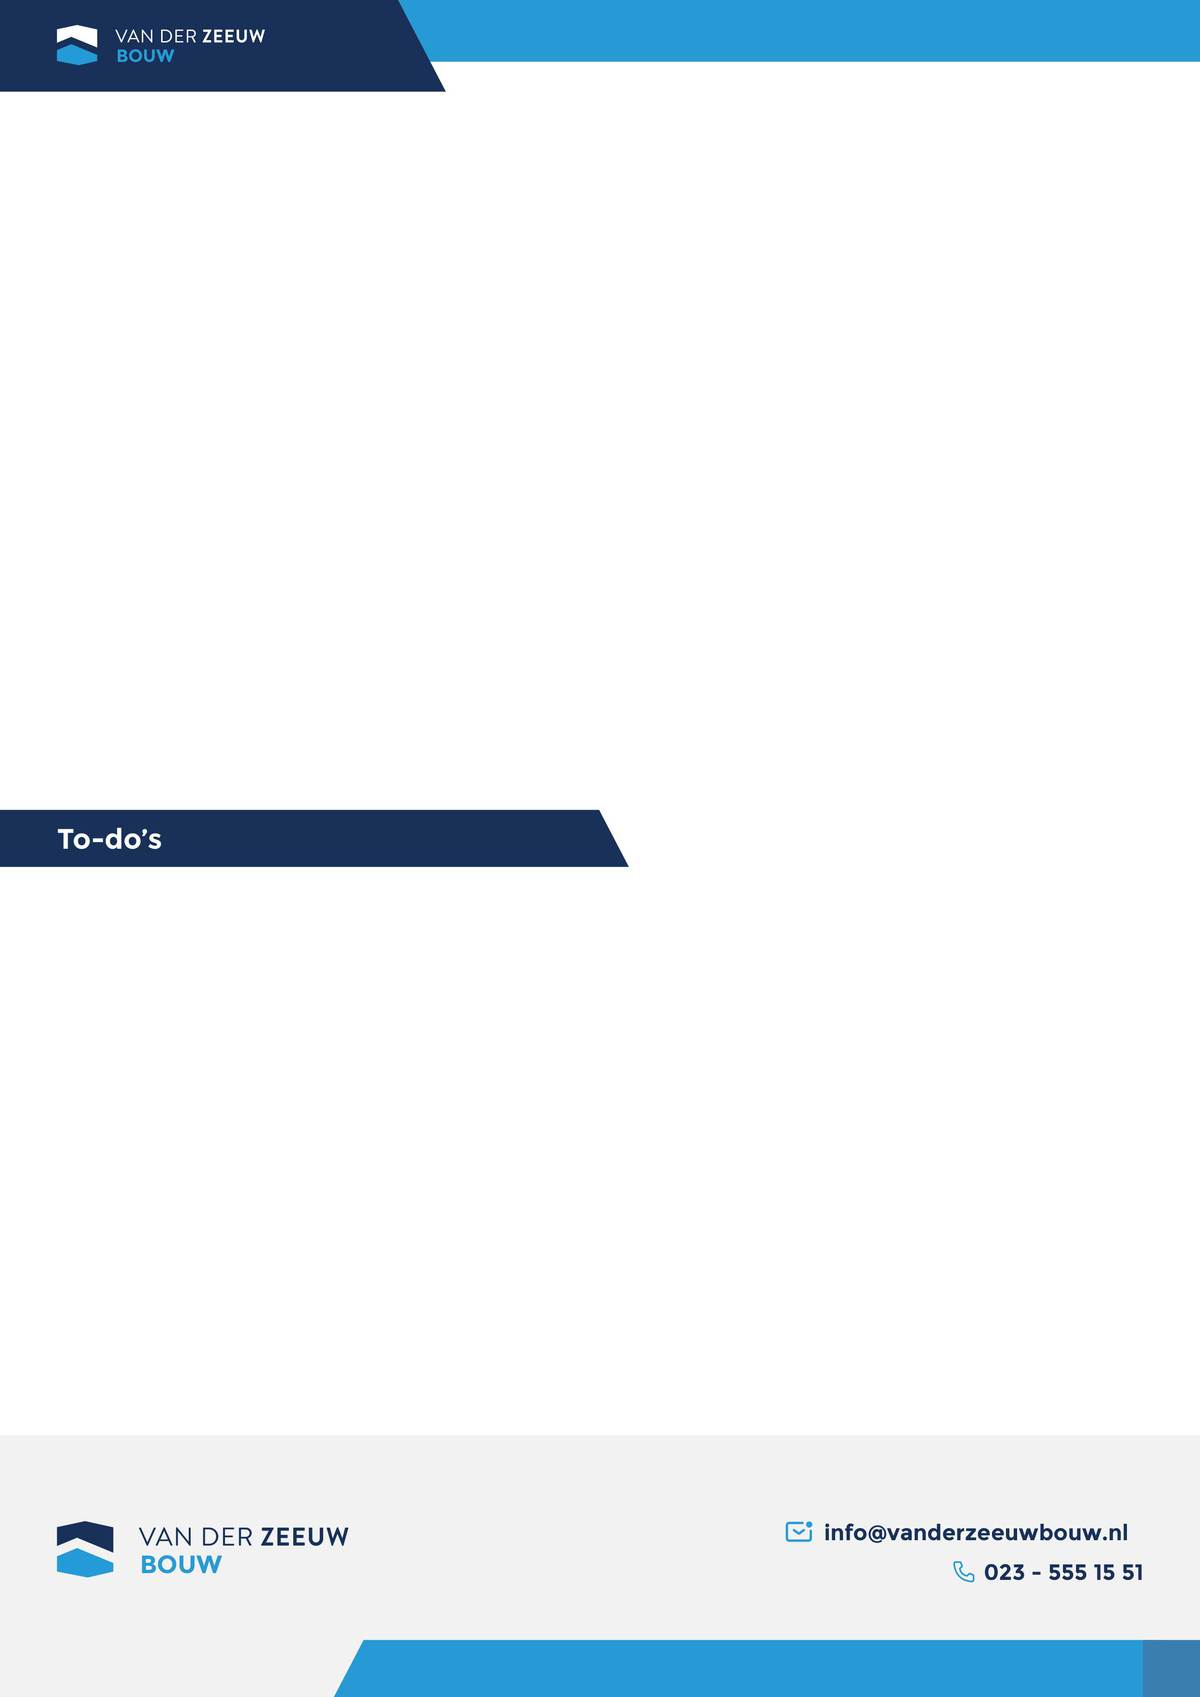
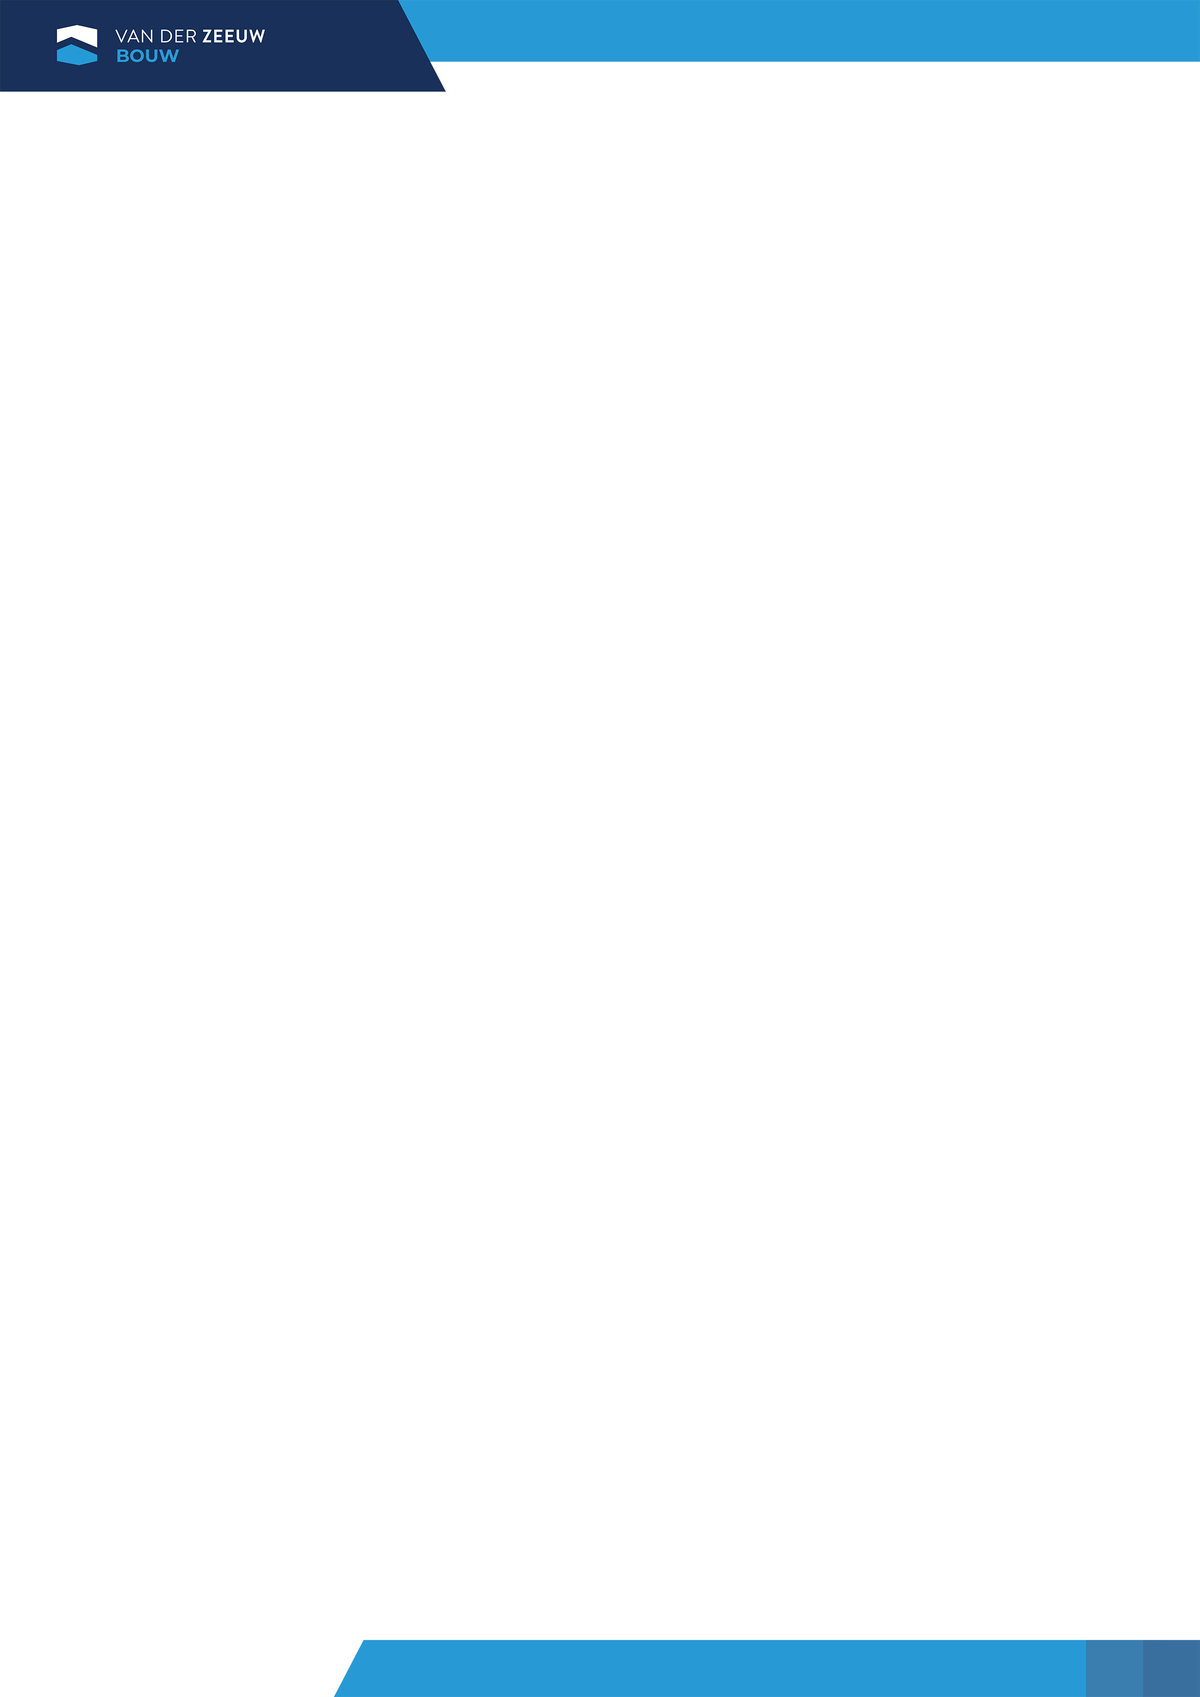
changed gw background

diff --git a/php/settings/generate_gw_pdf.php b/php/settings/generate_gw_pdf.php
@@ -29,10 +29,11 @@ $mpdf->SetTitle("Vanderzeeuwbouw.nl");
 $mpdf->AddPageByArray([
     'margin-left' => '0',
     'margin-right' => '0',
-    'margin-top' => '0',
-    'margin-bottom' => '0',
+    'margin-top' => '20',
+    'margin-bottom' => '35',
     'resetpagenum' => '1'
 ]);
+// $mpdf->AddPage();
 
 $mpdf->SetDisplayMode('fullpage');
 $todo = '<strong>To-do’s *voornaam* </strong>:<br/>';
@@ -64,11 +65,17 @@ $result = $stmt -> get_result();
 $row = $result->fetch_assoc();
 
 $date = date('d-m-Y');
+
+
+// $mpdf->SetHTMLHeader('<img src="'.__DIR__.'/../../images/gesprekverslag-pdf-leeg-4.jpg" alt="" style="width:100%;height:100%;position:absolute;top:0;left:0;" />');
+
 $html = '<html><head></head>
 <style>
+
+
 body{
 
-    background-image: url("'.__DIR__.'/../../images/gesprekverslag-pdf-leeg-1.jpg");
+    background-image: url("'.__DIR__.'/../../images/gesprekverslag-pdf-leeg-2.jpg");
     background-repeat: no-repeat;
     background-size: contain;
     background-position: top left;
@@ -76,21 +83,45 @@ body{
     background-image-resolution: from-image;
     font-size : 18px;
     font-family: Asap;
+    position: relative;
+    padding: 10mm !important;
 }
+
+.dark-blue-bar{
+    color: white;
+    font-weight : bold;
+    width : 400px;
+    height : 10mm;
+    background-image: url("'.__DIR__.'/../../images/label.png");
+    background-repeat: no-repeat;
+    background-size: 100%;
+    background-position: top left;
+    background-image-resolution: from-image;
+    padding-left:10mm;
+    font-size: 20px;
+    padding-top : 2mm;
+    z-index : 100;
+}
+
+
 .panel-title{
     width : 100%;
-    height: 305px;
-    position: relative;
+    height: 200px;
+    z-index : 100;
+    padding-left : 10mm;
 }
 #text-date{
     color : #2c9ad5;
-    margin-left: 38px;
-    padding-top : 150px;
+    // margin-left: 38px;
+    padding-top : 75px;
+    z-index : 100;
 }
 .panel-first{
     width : 100%;
-    height: 160px;
-    
+    height: 180px;
+    z-index : 100;
+    padding-left : 10mm;
+    padding-right : 30mm;
 }
 .vertical-top {
     vertical-align: top;
@@ -99,7 +130,7 @@ body{
 #table-project-info{
     width : 100%;
     text-align : left;
-    margin-left : 32px;
+    margin-right : -250px;
     margin-top : -20px;
 }
 #table-project-info th{
@@ -110,21 +141,41 @@ body{
 .panel-second{
     width : 100%;
 }
-#txt-samenvatting{
-    width : 55%;
+.txt-samenvatting{
+    width : 90%;
 
     padding-left : 35px;
-    margin-top : 60px;
+    margin-top : 0px;
     line-height : 26px;
+    // max-height: 100px;
+    // overflow: hidden;
+    z-index : 100;
+}
+.first-background{
+    background-image: url("'.__DIR__.'/../../images/gesprekverslag-pdf-leeg-1.jpg");
+    background-repeat: no-repeat;
+    background-size: contain;
+    background-position: top left;
+    background-image-resize: 4;
+    background-image-resolution: from-image;
+    width : 100%;
+    height : 100%;
+    z-index : -1;
+    position: absolute;
+
+    top:0px;
+    left : 0px;
 }
 </style>
 <body>
+<div class="first-background">
+</div>
 <div class="panel-title">';
 $html .= "<p id='text-date'>" . $date . "</p></div>";
 $html .= "<div class='panel-first'>";
 $html .= "<table id='table-project-info'><thead>
 <tr>
-<th style='width : 50%'>Voornaam Achternaam</th>
+<th style='width : 50%'>" . $row['name'] . "</th>
 <th style='width : 40%'>&nbsp;</th>
 <th style='width : 10%'>Projectnummer</th>
 </tr>
@@ -142,9 +193,10 @@ $html .= "<table id='table-project-info'><thead>
 </tr>
 </tbody></table>";
 $html .= "</div>";
+$html .= "<div class='dark-blue-bar'>Samenvatting van het gesprek</div>";
+$html .= "<div class='txt-samenvatting'>";
 
-$html .= "<div class='panel-second'>";
-$html .= "<p id='txt-samenvatting'>" . nl2br($_POST['gp_samenvatting']) . "</p>";
+$html .= nl2br($_POST['gp_samenvatting']);
 $html .= "</div>";
 
 // if(isset($_POST['gp_project']))
@@ -166,17 +218,37 @@ $html .= '<htmlpagefooter name="pagefooter" style="display:none">
 </html>
 ';
 
-
+// $mpdf->autoPageBreak = false;
+// $mpdf->SetAutoPageBreak(TRUE, 100);
 $mpdf->WriteHTML($html);
+$mpdf->autoPageBreak = true;
 
+// if ($mpdf->y > 300) {
+//     $mpdf->AddPageByArray(['margin-left' => '0',
+//     'margin-right' => '80',
+//     'margin-top' => '20',
+//     'margin-left' => '10',
+//     'margin-bottom' => '20',
+//     'resetpagenum' => '1']);
 
+//     $html = '<html><head></head>
+//         <style>
+//         body{
+
+//             background-image: url("'.__DIR__.'/../../images/gesprekverslag-pdf-leeg-4.jpg");
+//         }
+//         </style>
+//         <body>' . nl2br($_POST['gp_samenvatting']) . '</body>
+//         </html>';
+//     $mpdf->WriteHTML($html);
+// }
 
 
 $mpdf->AddPageByArray([
     'margin-left' => '0',
     'margin-right' => '0',
-    'margin-top' => '0',
-    'margin-bottom' => '0',
+    'margin-top' => '20',
+    'margin-bottom' => '15',
     'resetpagenum' => '1'
 ]);
 
@@ -198,14 +270,17 @@ body{
     font-family: Asap;
 
 }
-.panel-third{
 
+.margin-50 {
+
+    margin-left : -40px;
+}
+.panel-third{
+padding-top : 20px;
 width : 100%;
 margin-left : 40px;
-padding-top : 100px;
-width : 55%;
-height : 440px;
 
+width : 90%;
 
 }
 
@@ -249,20 +324,27 @@ height : 440px;
 
 .panel-fifth{
     width : 100%;
-
+    padding-top : 10mm;
 }
 
 .panel-fifth .person{
     line-height : 25px;
+    padding-left : 40px;
 }
+.panel-fifth .dark-blue-bar{
+    margin-bottom : 5mm;
+}
+
 </style>
 </head>
 <body>
+
 <div class="panel-third">
-<p class="txt-strong">Wat is er besloten?</p>
+<div class="dark-blue-bar margin-50">Wat is er besloten?</div>
 <p style="line-height : 26px;">' . nl2br($_POST['gp_beslissingen']) . '</p>
 </div>
 <div class="panel-firth">
+<div class="dark-blue-bar margin-50">To-do\'s</div>
     <div class="panel-firth-left">
     <p  class="txt-strong">Van der Zeeuw</p>';
     if(isset($_POST['gw_todo_zeeuw']))
@@ -281,11 +363,11 @@ $html .= '
         $html .= "<div class='item'>" . $item . "</div>";
     }
 
-$html .=    '</div>';
+$html .=    '</div></div>';
 if(isset($_POST['gw_person']))
 {
     $html .= '<div class="panel-fifth">
-    <p class="txt-strong">Deze personen waren aanwezig:</p>'; 
+    <div class="dark-blue-bar">Deze personen waren aanwezig</div>'; 
     foreach($_POST['gw_person'] as $item)
     {
         $html .= "<div class='person'>" . $item . "</div>";
@@ -318,7 +400,7 @@ if(isset($_POST['image_path'])){
 $mpdf->AddPageByArray([
     'margin-left' => '0',
     'margin-right' => '0',
-    'margin-top' => '40',
+    'margin-top' => '25',
     'margin-bottom' => '0'
 ]);
 
@@ -347,6 +429,7 @@ body{
     max-width : 90%;
     margin-left : 5%;
     margin-top : 30px;
+    max-height : 90%;
 }
 </style>
 </head>
@@ -354,7 +437,7 @@ body{
 ';
 
 $html .= "<div class='panel-sixth'>";
-
+$html .= "<div class='dark-blue-bar'>Bijlagen</div>";
 foreach($_POST['image_path'] as $img)
 {
     $html .= "<img class='image-bijlagen' src='" .__DIR__.'/../../upload/' . $img .  "'/>";
@@ -396,10 +479,10 @@ function generateRandomString($length = 10, $hasNumber = false, $hasLowercase = 
 
 $date = date_create();
 $dt = $date->format("d-m-Y");
-$file_name = generateRandomString(10) . "_" .  $dt . ".pdf";
+$file_name = "gespreksverslag" . "-" . $row['name'] . "-" .  $dt . "-" .  generateRandomString(10) . ".pdf";
 $mpdf->Output('upload/'.$file_name,'F'); 
-$mpdf->Output($file_name,'D'); 
-// exit();
+// $mpdf->Output($file_name,'I'); 
+exit();
 
 require( 'common/connection.php');
 
